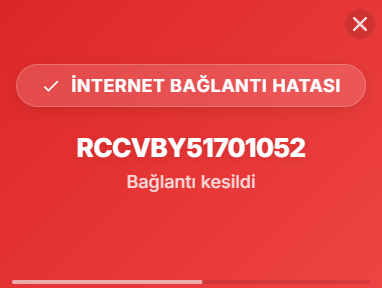
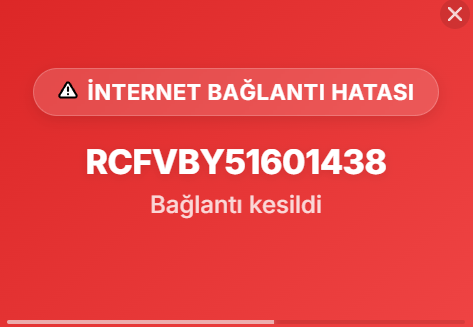
Auto release added

diff --git a/src/popup.html b/src/popup.html
@@ -253,9 +253,11 @@
     </div>
 
     <div class="status-badge">
-      <svg class="check-icon" viewBox="0 0 24 24">
-        <path d="M9 16.17L4.83 12l-1.42 1.41L9 19 21 7l-1.41-1.41z" />
-      </svg>
+      <div id="status-icon-container">
+        <svg class="check-icon" viewBox="0 0 24 24">
+          <path d="M9 16.17L4.83 12l-1.42 1.41L9 19 21 7l-1.41-1.41z" />
+        </svg>
+      </div>
       <span id="status-text" class="status-text">Yükleniyor...</span>
     </div>
 
@@ -296,23 +298,34 @@
       const status = (info.warranty_status || '').toUpperCase();
       statusText.textContent = status;
 
+      const iconContainer = document.getElementById('status-icon-container');
+      const icons = {
+        check: '<svg class="check-icon" viewBox="0 0 24 24"><path d="M9 16.17L4.83 12l-1.42 1.41L9 19 21 7l-1.41-1.41z" /></svg>',
+        info: '<svg class="check-icon" viewBox="0 0 24 24" fill="none" stroke="currentColor" stroke-width="2.5" stroke-linecap="round" stroke-linejoin="round"><circle cx="12" cy="12" r="10"></circle><line x1="12" y1="16" x2="12" y2="12"></line><line x1="12" y1="8" x2="12.01" y2="8"></line></svg>',
+        error: '<svg class="check-icon" viewBox="0 0 24 24" fill="none" stroke="currentColor" stroke-width="2.5" stroke-linecap="round" stroke-linejoin="round"><path d="M10.29 3.86L1.82 18a2 2 0 0 0 1.71 3h16.94a2 2 0 0 0 1.71-3L13.71 3.86a2 2 0 0 0-3.42 0z"></path><line x1="12" y1="9" x2="12" y2="13"></line><line x1="12" y1="17" x2="12.01" y2="17"></line></svg>'
+      };
+
       // Theme logic & Button Visibility
       if (info.is_error) {
         popup.classList.add('theme-error');
         modelDisplay.textContent = 'Bağlantı kesildi';
         copyBtn.style.display = 'none';
+        iconContainer.innerHTML = icons.error;
       } else if (status.includes('RECCI')) {
         popup.classList.add('theme-recci');
         modelDisplay.textContent = (info.model_name || '') + ' - ' + (info.model_color || '');
         copyBtn.style.display = 'flex';
+        iconContainer.innerHTML = icons.check;
       } else if (status.includes('KVK')) {
         popup.classList.add('theme-kvk');
         modelDisplay.textContent = (info.model_name || '') + ' - ' + (info.model_color || '');
         copyBtn.style.display = 'flex';
+        iconContainer.innerHTML = icons.check;
       } else {
         popup.classList.add('theme-none');
         modelDisplay.textContent = 'Garanti Kapsamı Dışında';
         copyBtn.style.display = 'none';
+        iconContainer.innerHTML = icons.info;
       }
 
       // Copy logic

diff --git a/src/index.html b/src/index.html
@@ -320,6 +320,39 @@
       background: #f59e0b;
       box-shadow: 0 0 10px rgba(245, 158, 11, 0.5);
     }
+
+    #status-refresh-btn {
+      display: flex;
+      align-items: center;
+      justify-content: center;
+      cursor: pointer;
+      color: var(--text-muted);
+      margin-left: 4px;
+      transition: all 0.3s cubic-bezier(0.4, 0, 0.2, 1);
+      width: 22px;
+      height: 22px;
+      border-radius: 50%;
+    }
+
+    #status-refresh-btn:hover {
+      color: white;
+      background: rgba(255, 255, 255, 0.1);
+      transform: rotate(180deg);
+    }
+
+    #status-refresh-btn:active {
+      transform: rotate(360deg) scale(0.9);
+    }
+
+    .rotating {
+      animation: spin 0.6s linear infinite;
+    }
+
+    @keyframes spin {
+      100% {
+        transform: rotate(360deg);
+      }
+    }
   </style>
 </head>
 
@@ -329,6 +362,14 @@
     <div class="server-status" id="server-status-box">
       <div class="status-dot" id="status-dot"></div>
       <span id="status-info">Sunucu Kontrol...</span>
+      <div id="status-refresh-btn" title="Manuel Yenile">
+        <svg width="14" height="14" viewBox="0 0 24 24" fill="none" stroke="currentColor" stroke-width="2.5"
+          stroke-linecap="round" stroke-linejoin="round">
+          <path d="M23 4v6h-6"></path>
+          <path d="M1 20v-6h6"></path>
+          <path d="M3.51 9a9 9 0 0 1 14.85-3.36L23 10M1 14l4.64 4.36A9 9 0 0 0 20.49 15"></path>
+        </svg>
+      </div>
     </div>
     <button id="theme-toggle" class="nav-btn">🌙</button>
 
@@ -456,6 +497,12 @@
 
       dot.className = 'status-dot ' + (status.online ? (status.latency > 1000 ? 'slow' : 'online') : 'offline');
       info.textContent = status.online ? `Sunucu: ${status.latency}ms` : 'Sunucu: Erişilemiyor';
+      document.getElementById('status-refresh-btn').classList.remove('rotating');
+    });
+
+    document.getElementById('status-refresh-btn').addEventListener('click', () => {
+      document.getElementById('status-refresh-btn').classList.add('rotating');
+      ipcRenderer.send('manual-server-status-refresh');
     });
   </script>
 </body>

diff --git a/src/main.ts b/src/main.ts
@@ -151,8 +151,8 @@ function setupIpcHandlers() {
   }));
 
   ipcMain.handle('save-settings', async (_, settings) => {
-    currentSettings = settings;
-    saveSettings(settings);
+    currentSettings = { ...currentSettings, ...settings };
+    saveSettings(currentSettings);
     return true;
   });
 
@@ -187,6 +187,10 @@ function setupIpcHandlers() {
     return await loadCache();
   });
 
+  ipcMain.on('manual-server-status-refresh', () => {
+    checkServerStatus();
+  });
+
   ipcMain.handle('delete-entry', async (_, s) => {
     await deleteEntry(s);
     return await loadCache();
@@ -207,7 +211,7 @@ function initializeApp() {
 
     const mainWindow = windowManager.createMainWindow();
 
-    tray = new Tray(nativeImage.createFromPath(path.join(__dirname, '../logo.png')));
+    tray = new Tray(nativeImage.createFromPath(path.join(__dirname, '../assets/logo.png')));
     tray.setToolTip('Warranty Monitor');
     tray.setContextMenu(Menu.buildFromTemplate([
       { label: 'Ana Menü', click: () => { mainWindow?.show(); mainWindow?.focus(); } },

diff --git a/src/settings.html b/src/settings.html
@@ -78,20 +78,29 @@
 
     select,
     input[type="number"] {
-      background: rgba(255, 255, 255, 0.05);
+      background: rgba(30, 41, 59, 0.8);
       border: 1px solid var(--glass-border);
       color: white;
-      padding: 8px 12px;
-      border-radius: 10px;
+      padding: 10px 14px;
+      border-radius: 12px;
       outline: none;
-      font-size: 0.9rem;
-      transition: all 0.3s;
+      font-size: 0.95rem;
+      transition: all 0.3s ease;
+      appearance: none;
+      cursor: pointer;
+      min-width: 120px;
     }
 
-    select:focus,
-    input:focus {
-      border-color: var(--accent);
-      background: rgba(255, 255, 255, 0.08);
+    /* Styling for the dropdown options to ensure visibility */
+    select option {
+      background-color: #1e293b;
+      color: white;
+      padding: 10px;
+    }
+
+    select:hover,
+    input:hover {
+      border-color: rgba(56, 189, 248, 0.5);
     }
 
     .save-btn {

diff --git a/src/settingsManager.ts b/src/settingsManager.ts
@@ -16,7 +16,8 @@ export function loadSettings(): AppSettings {
   try {
     const p = getSettingsPath();
     if (fs.existsSync(p)) {
-      return JSON.parse(fs.readFileSync(p, 'utf8'));
+      const settings = JSON.parse(fs.readFileSync(p, 'utf8'));
+      return { ...settings, doubleCopyEnabled: true };
     }
   } catch (error) {
     console.error('Error loading settings:', error);
